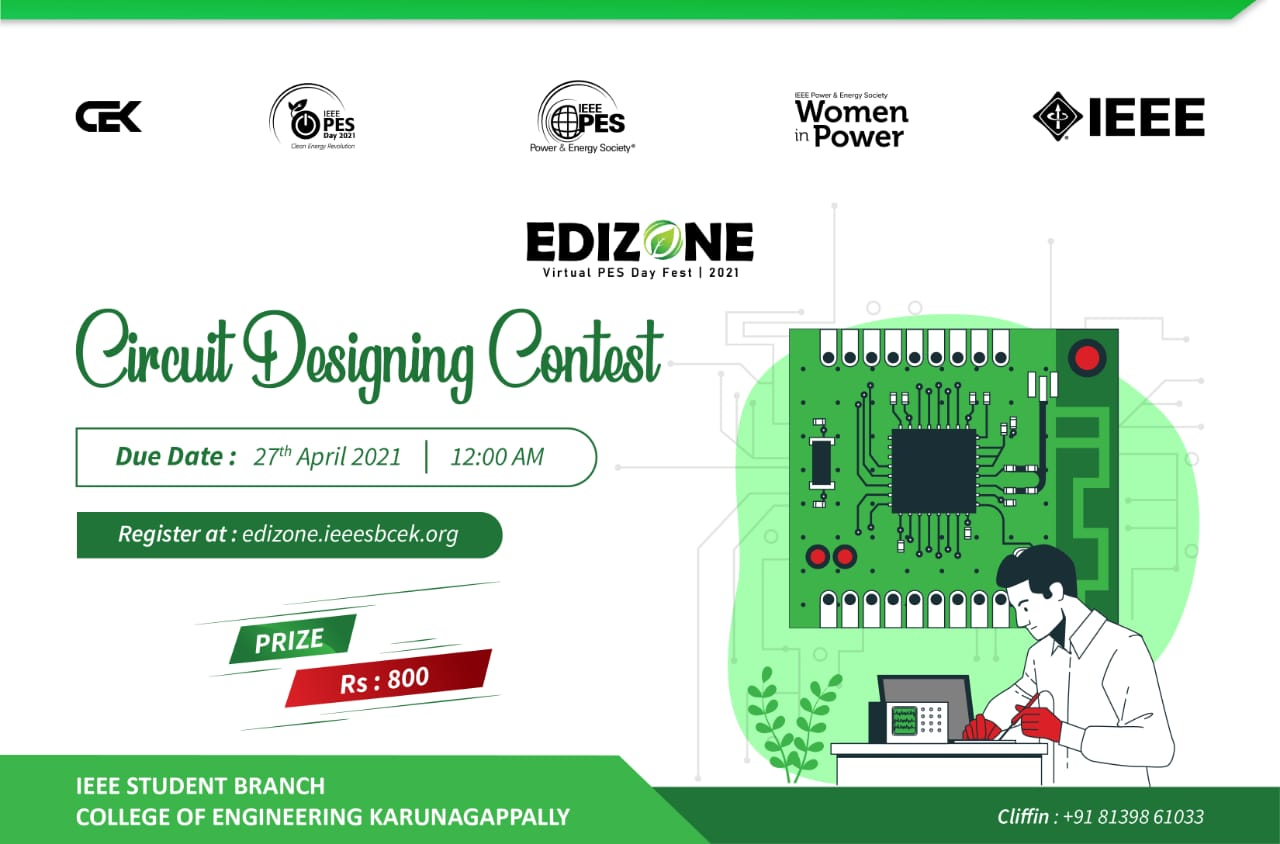
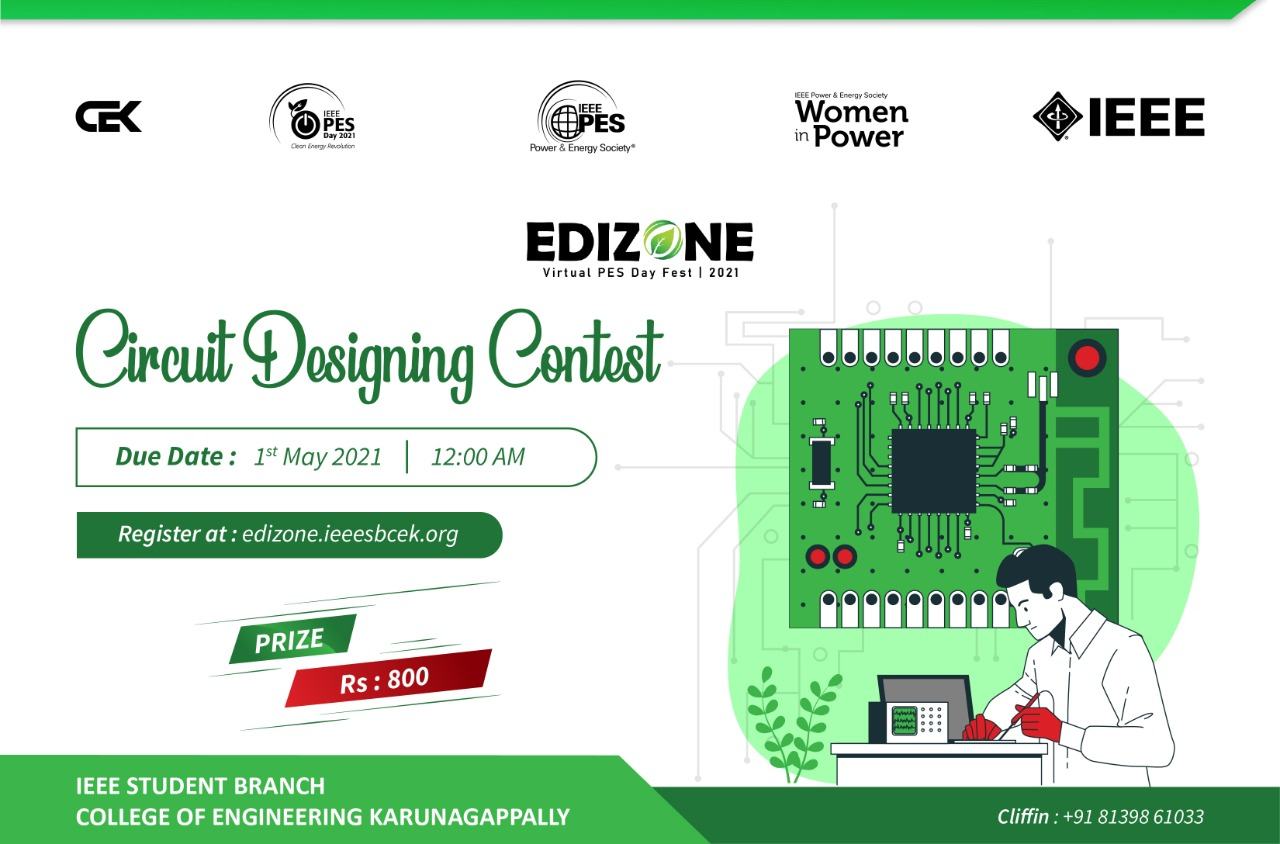
update

Changed region(s): [[0.1875, 0.5237, 0.4375, 0.5545], [0.8125, 0.1232, 0.8438, 0.154]]

diff --git a/circuit.html b/circuit.html
@@ -118,78 +118,89 @@
 			</div>
 
         </section>
-<section class="ftco-section ftco-section-2 bg-light" id="navigationTabs" style="padding-top: 20px;">
-	<div class="container">
-		<div class="row">
-			<div class="col-md-12 mb-5 mb-md-0">
-				<div class="tabulation">
-					<ul class="nav nav-pills nav-fill d-md-flex d-block">
-					  <li class="nav-item os-init aos-animate" data-aos="fade-up" data-aos-delay="200">
-						<a class="nav-link active py-3" data-toggle="tab" href="#home"><span class="ion-ios-eye mr-2"></span>Details</a>
-					  </li>
-					  <li class="nav-item os-init aos-animate" data-aos="fade-up" data-aos-delay="200">
-						<a class="nav-link py-3 mx-md-3" data-toggle="tab" href="#menu2"><span class="ion-ios-navigate mr-2"></span>Guidelines</a>
-					  </li>
-					</ul>
-
-					<div class="tab-content rounded mt-md-3">
-					  <div class="tab-pane container p-4 active os-init aos-animate" style="align-content: center;" data-aos="fade-up" data-aos-delay="200" id="home">
-                        <p class="card-text" style="text-align: justify;"><b>“Imagination is the 
-							beginning of creation. You imagine what you desire, you will what you 
-							imagine, and at last, you create what you will.”
-						</b>- George Bernard Shaw 
-							<br>
-							<br>
- 							<b>Edizone 2021</b> organized by <b>IEEE Student Branch College of Engineering 
-                                 Karunagappally</b> and <b>PES SBC CEK</b> in association with <b>PES DAY 2021</b>
-                                 revealing it's second event <b>Circuit Designing Competition</b>.
-								 <br>
-								 <br>
-                                 <i>Navigate your way through circuit based logic to derive real 
-									computers. Get ready to display your skills in circuit 
-									designing ✨✨✨</i>
-							<br>
-							<br>
-							Submit your designs on Edizone 2.0 on or before 27th April 2021🔖🔖
-							<br>
-							<br>
-							For More Info : https://edizone.ieeesbcek.org
-							<br>
-							<br>
-							<b>Dates:</b> 23rd - 27th April 2021 (IST)
-							<br>
-							<br>
-                        </p>
-							<br>
-                        <p class="card-text" style="text-align: center;">
-							<a style="text-align: center; padding: 10 40px;" href="https://edizone.ieeesbcek.org/E4.html" class="btn btn-success"><b>Register Now</b></a>
-                        </p> 
-                            </div>
-					  <div class="tab-pane container p-4 fade os-init aos-animate" data-aos="fade-up" data-aos-delay="200" id="menu2">
-						<!--h6><b>Topic:</b> Portaiting the concept of Clean Energy</h6-->  
-                        <br>
-                        <ul>
-						<li>Open to all undergraduates student from Engineering stream.</li>
-                        <br>
-						<li>The problem statement and link to attend the competition will be available from<b> 23rd April 2020</b>;</li>
-						<li>After starting the contest <b>2 hours</b> will be provided and your submission will be auto submited after that.</li>
-						<li>The competition tab should not be closed after starting it;</li>
-						<li>Only one submission can be made from an Email ID;</li>
-						<br>
-						<h6><b>Files to be attached during competition:</b></h6>
-                        <li>Design Calculations; Screenshot of Circuit Diagram, Simulation Output & Integrated PCB layout as a single pdf file.</li>
-                        <li>The simulation file should be exported and link to the file after uploading to drive should be attached in the spot provided.</li>
-						<li>The softwares recomended for use are: EasyEDA, Proteus & Eagle.</li>
-						<li><b>Deadline for submission is: 27th April 2021</b></li>
-						</ul>
-					  </div>
-					</div>
+		<section class="ftco-section ftco-section-2 bg-light" id="navigationTabs" style="padding-top: 10px;">
+			<div class="container">
+				
+				<div class="row" style="margin-top: 10px;">
+						<div class="col-md-1">
+							<!--div class="card text-center">
+							  <div class="card-img">
+								<div class="image-wrap d-flex mt-4">
+									<img src="images/bg_3.jpg" alt="Round Image" class="rounded-circle img-fluid image ima m-auto">
+									
+								</div>
+								</div>
+							  <div class="card-body pb-5">
+								<h5 class="card-title mb-0 text-success">Paula Fortland</h5>
+								<span class="position d-block mb-4">A Web Designer Based from London</span>
+								<p class="card-text">With supporting text below as a natural lead-in to additional content.</p>
+								<a href="#" class="btn btn-success">Available for Freelance</a>
+							  </div>
+							</div-->
+						</div>
+						<div class="col-md-10">
+							<div class="card">
+							  <div class="card-body text-center pb-5">
+								  
+								<div class="tab-pane container p-4 fade os-init aos-animate" style="text-align: left;" data-aos="fade-up" data-aos-delay="200" id="menu2">
+									<h4 style="text-align: center;"><b>Guidelines</b></h4>
+									<hr>
+									<br>
+									<h6 style="color: red;">Read the Guidelines carefully before starting the contest!</h6>
+									<br>
+									<ul>
+									<li>Open to all undergraduates student from Engineering stream.</li>
+									<br>
+									<li>The Problem Statement will be visible once you start the contest.</li>
+									<li>After starting the contest <b>5 hours</b> will be provided and the form will be auto submited after that.</li>
+									<li>The competition tab should not be closed after starting it, which would otherwise lead to disqualification;</li>
+									<li>Only one submission can be made from an Email ID;</li>
+									<li>The contest will be open from 12:00 AM - 29th March 2021 to 12:00 AM - 2nd May 2021 (All Time & Date are in IST)</li>
+									<li>The circuit has to be finally made into a PCB Layout</li>
+									<li>All files attached in the submission should have the name in the format "TeamLeadName.fileextension"</li>
+									<li>For any queries contact event coordinator mentioned on the poster</li>
+									<br>
+									<h6><b>The Softwares suggested for use are:</b></h6>
+									<li>Proteus</li>
+									<li>EasyEDA</li>
+									<li>Eagle</li>
+									<li>LTSpice</li>
+									<li>Multisim</li>
+									<li><i>You can use any other simulation software that is capable of providing the desired output files</i></li>
+									<br>
+									<h6><b>Files to be attached to submission form during competition:</b></h6>
+									<li>Mathematical Design Calculations & Efficiency Calculation of given circuit as a pdf file;</li>
+									<li>Screenshot or PNG file of Schematic Circuit Diagram;</li> 
+									<li>Simulation Output Data;</li> 
+									<li>Input & Output Chara generated from simulation softwaret</li> 
+									<li>PCB layout as a single pdf file/Gerber file.</li>
+									<li>The exact software used for simulation should be mentioned in the slot provided</li>
+									<li>The simulation file should be exported and attached to the given slot</li>
+									</ul>
+								  </div>
+									<br>
+										<a style="text-align: center; padding: 10 40px;" href="https://forms.gle/3ruxnvriwN7D3wCC6" class="btn btn-success"><b>Submit Now</b></a>
+							  </div>
+							</div>
+						<div class="col-md-1">
+								<!--div class="card text-center">
+								<div class="card-img">
+									<div class="image-wrap d-flex mt-4">
+										<img src="images/bg_3.jpg" alt="Round Image" class="rounded-circle img-fluid image ima m-auto">
+										
+									</div>
+									</div>
+								  <div class="card-body pb-5">
+									<h5 class="card-title mb-0 text-success">Paula Fortland</h5>
+									<span class="position d-block mb-4">A Web Designer Based from London</span>
+									<p class="card-text">With supporting text below as a natural lead-in to additional content.</p>
+									<a href="#" class="btn btn-success">Available for Freelance</a>
+								  </div>
+								</div-->
+						</div>
 				</div>
 			</div>
-		</div>
-	</div>
-</section>
-
+			</section>
 		<!--div class="row" style="margin-top: 20px;">
 				<div class="col-md-1">
 					<div class="card text-center">

diff --git a/humanitarian.html b/humanitarian.html
@@ -145,6 +145,7 @@
 						  
 						  <div class="tab-pane container p-4 fade os-init aos-animate" style="text-align: left;" data-aos="fade-up" data-aos-delay="200" id="menu2">
 							<h4 style="text-align: center;"><b>Guidelines</b></h4>
+							<hr>
 							<br>
 							<h6 style="color: red;"><b>The Link for submission is now open !</b></h6>  
 							<br>
@@ -157,7 +158,7 @@
                             <li>Participants may use other graphics to heighten the creativity of the ideas.</li>
                             <li>Specific areas such as beneficial for educational institutions or other communities must be specifically mentioned.</li>
                             <li>The attachments must in "yourname.mp4" format.</li>
-                            <li>Deadline for submission is: 27th April 2021</li>
+                            <li>Deadline for submission is: 30th April 2021</li>
 							<br>
 							<!--h6><b>The Content of the file should be as follows:</b></h6>
 							

diff --git a/animation.html b/animation.html
@@ -144,9 +144,11 @@
 								  
 								<div class="tab-pane container p-4 fade os-init aos-animate" style="text-align: left;" data-aos="fade-up" data-aos-delay="200" id="menu2">
 									<h4 style="text-align: center;"><b>Guidelines</b></h4>
-							<br>
+									<hr>
+									<br>
 									<h6><b>Topic:</b> Portaiting the concept of Clean Energy</h6>  
 									<br>
+									<h6 style="color: red;"><b>The Link for submission is now open !</b></h6>
 									<ul>
 									<li>Open to all graduates and undergraduates student from all stream.</li>
 									<br>
@@ -156,7 +158,6 @@
 									<li>Dimension to follow: 1920x1080/landscape;</li>
 									<li>File submission format: mov/mp4;</li>
 									<li>File name should be in the format Yourname.mp4/Yourname.mov;</li>
-									<li>The link to submit the file will be mailed to the registrants on 23rd April 2021;</li>
 									</ul>
 								  </div>
 									<br>

diff --git a/technical.html b/technical.html
@@ -145,12 +145,13 @@
 						  
 						  <div class="tab-pane container p-4 fade os-init aos-animate" style="text-align: left;" data-aos="fade-up" data-aos-delay="200" id="menu2">
 							<h4 style="text-align: center;"><b>Guidelines</b></h4>
+							<hr>
 							<br>
-							<h6><b>The Link for submission will be open on 23rd April 2021</b></h6>  
+							<h6 style="color: red;"><b>The Link for submission is now open !</b></h6>  
 							<br>
 							<ul>
 							<li>Open to all graduates and undergraduates student from all stream.</li>
-							<li>Last Date for submission is 27th April 2021.</li>
+							<li>Last Date for submission is 30th April 2021.</li>
 							<li>The file should be submitted in pdf format only.</li>
 							<li>The file name should be in the format yourname.pdf</li>
 							<li>Maximum number of pages should be less than 3.</li>
